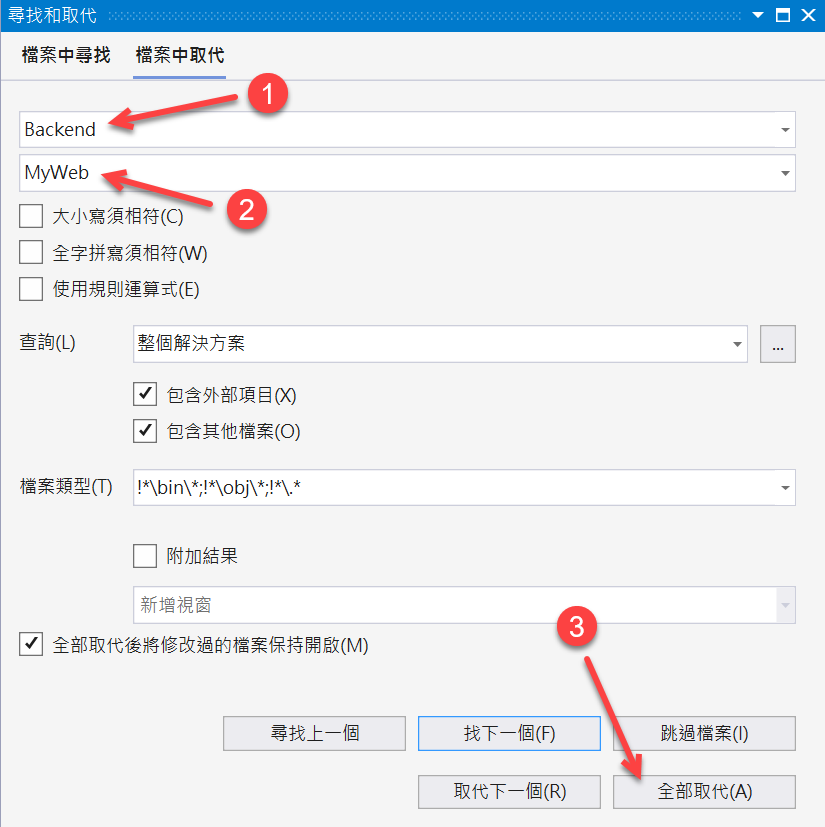
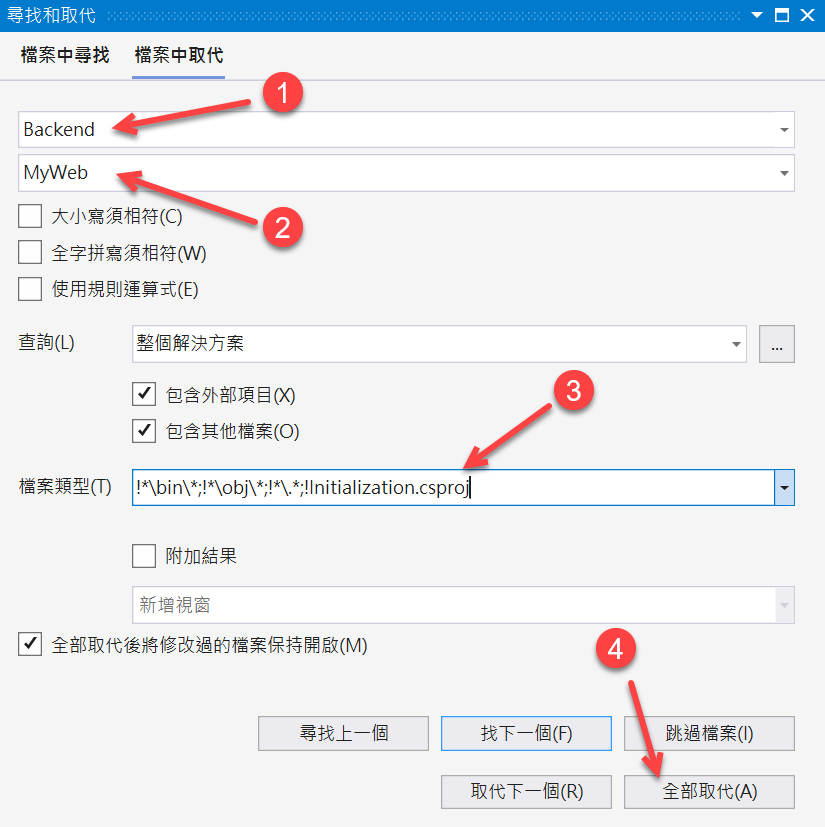
Blazor Server 快速開發專案樣板 1 - 建立一個新的專案

diff --git a/Blazor/Blazor-Backend-project-template-syncfusion-NET5-Part1-Create-New.md b/Blazor/Blazor-Backend-project-template-syncfusion-NET5-Part1-Create-New.md
@@ -33,10 +33,11 @@
   > 準備進行將所有的  Backend 文字替換成為 MyWeb
 
 * 在 [尋找與取代] 視窗內，在第一個文字輸入盒內，輸入 Backend ，在第二個文字輸入盒輸入 MyWeb
+* 請在 [檔案類型] 欄位中輸入 `!*\bin\*;!*\obj\*;!*\.*;!Initialization.csproj` 文字
+* 點選下方的 [全部取代] 按鈕
 
   ![](../Images/x003.png)
 
-* 點選下方的 [全部取代] 按鈕
 * 一旦完成後，將會看到底下對話窗，請點選 [確定] 按鈕，關閉這個對話窗
 
   ![](../Images/x004.png)
